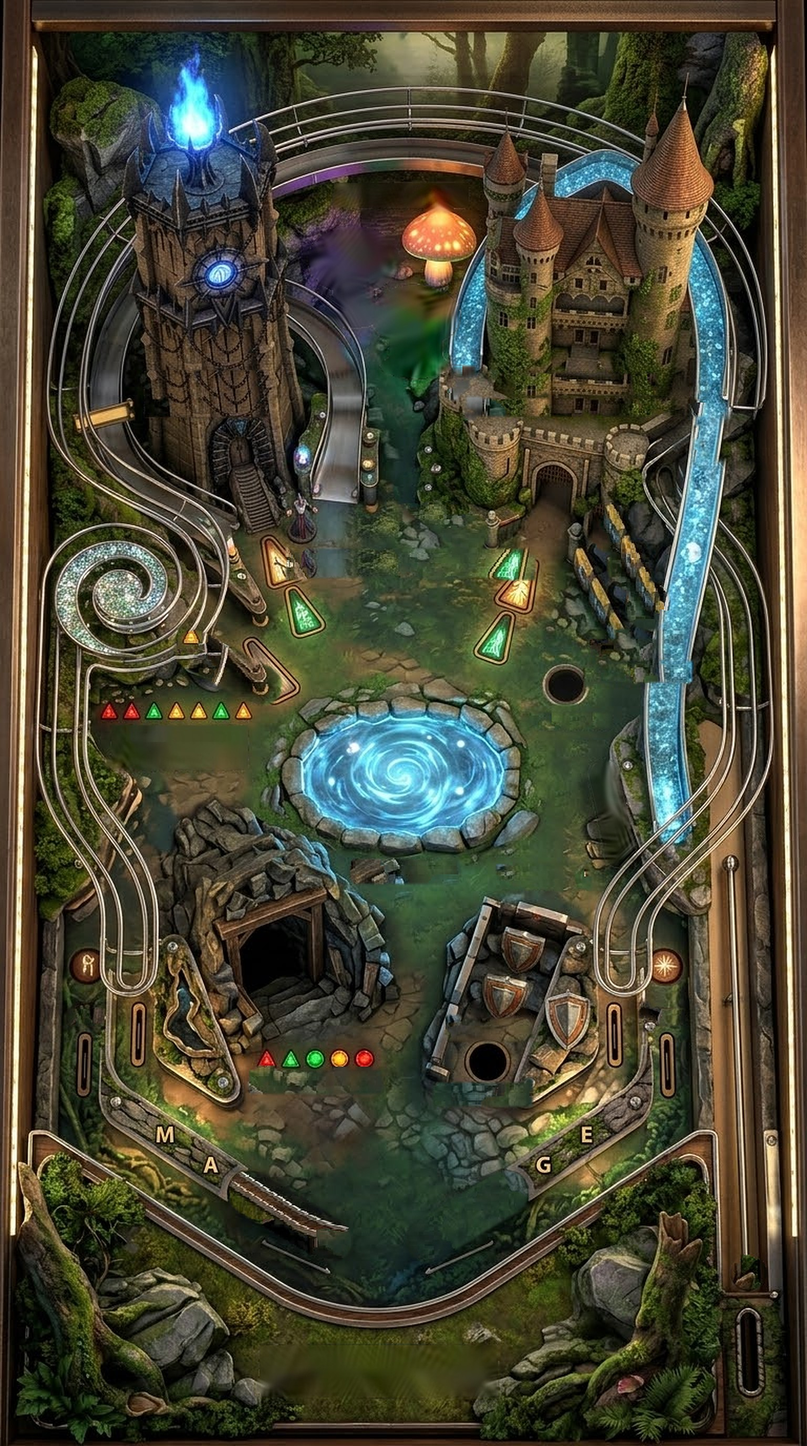
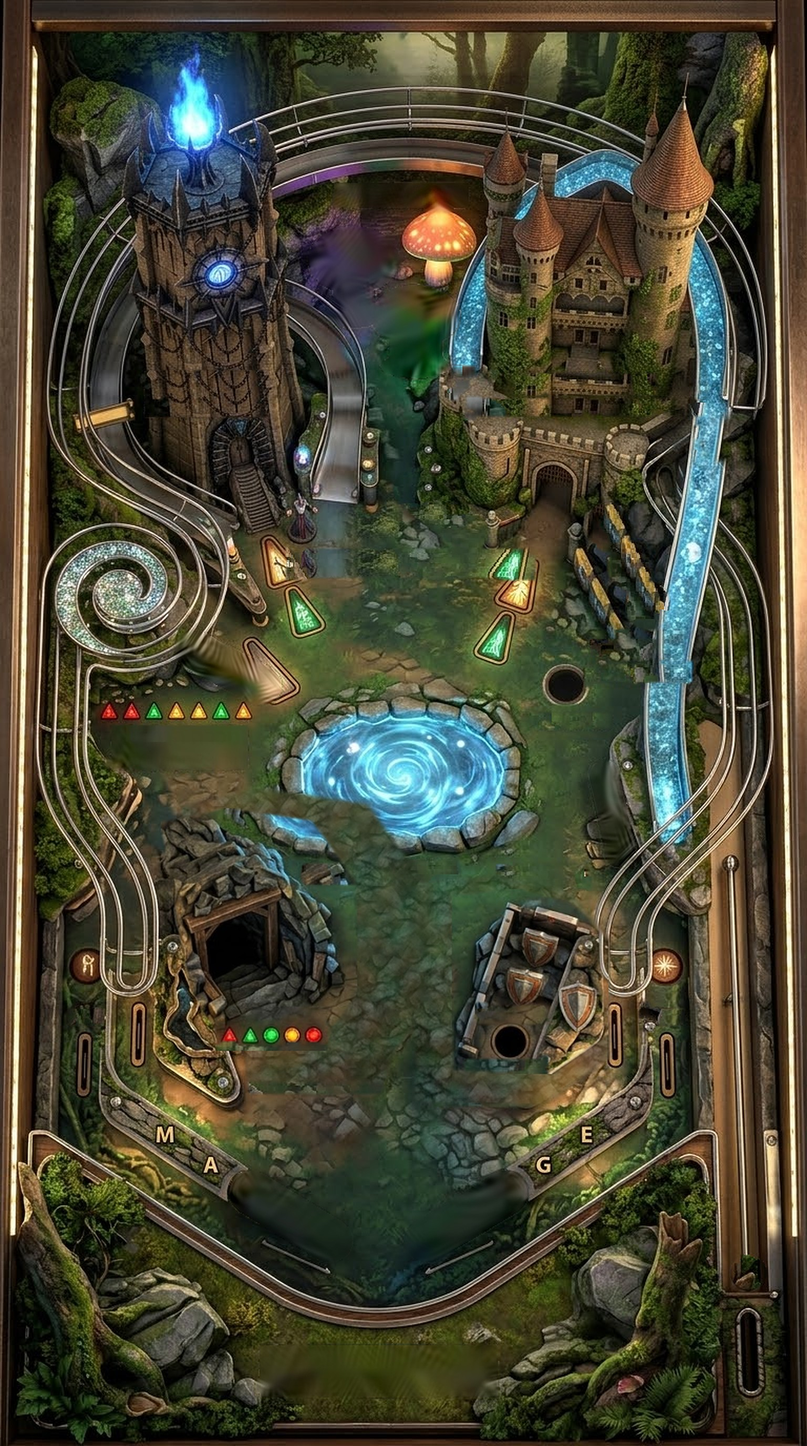
Pinball v2.5.0: mine and prince-shield structure moved apart
- Art: the dwarf mine (with its lights) moves left and the shield structure
  (with the right sling) moves right, both slightly smaller; the opened centre
  gets the drawing's own stone floor (random patch scatter, colour-matched).
- Physics uses the exact same transform (mine walls and hole, right sling,
  shield targets, lower mystery hole, lamp positions).
- Wider centre corridor: more reachable crystal/tower shots, fewer ricochets
  straight into the drain.

Claude-Session: https://claude.ai/code/session_016sxfsLsBsC7Pz7HgfG51z5

diff --git a/pinball/js/layout.js b/pinball/js/layout.js
@@ -5,6 +5,14 @@ export const IMG = { w: 768, h: 1376 };
 export const BALL_R = 14;
 export const CX = 360; // mirror line of the lower playfield
 const m = (x) => 2 * CX - x;
+
+// The dwarf mine and the prince-shield structure (with the right sling) were moved apart in the
+// art (tools/make_playfield.py MOVES): scale about the cut-out's centre, then shift.
+export const STRUCTURE_MOVES = {
+  mine: { c: [286.5, 890.5], sc: 0.86, d: [-40, -6] },
+  shield: { c: [486.5, 942.5], sc: 0.84, d: [18, -8] },
+};
+const mv = (k, [x, y]) => { const t = STRUCTURE_MOVES[k]; return [t.c[0] + (x - t.c[0]) * t.sc + t.d[0], t.c[1] + (y - t.c[1]) * t.sc + t.d[1]]; };
 export const FIELD = { left: 45, right: 731, top: 30, bottom: 1376, laneIn: 697, laneOut: 731 };
 
 export const walls = [];
@@ -36,13 +44,13 @@ poly(CASTLE_POLY, { kind: 'rock' });
 poly([[505, 458], [505, 428], [548, 428], [548, 458]]); // gate pocket
 
 // ---- dwarf mine (rock mound with the timber doorway notch) ------------------------------
-export const MINE_POLY = [[180, 810], [245, 775], [322, 792], [336, 850], [322, 905], [300, 905], [300, 880], [232, 880], [228, 905], [195, 900], [178, 860]];
+export const MINE_POLY = [[180, 810], [245, 775], [322, 792], [336, 850], [322, 905], [300, 905], [300, 880], [232, 880], [228, 905], [195, 900], [178, 860]].map((p) => mv('mine', p));
 poly(MINE_POLY, { closed: true, kind: 'rock' });
 
 // ---- prince's shield: the three drawn shields are round stand-up targets (sword art is flat) --
 // ---- slings, inlanes, outlanes ----------------------------------------------------------
 export const SLING_L = [[162, 896], [150, 1000], [222, 1040]];
-export const SLING_R = SLING_L.map(([x, y]) => [m(x), y]);
+export const SLING_R = SLING_L.map(([x, y]) => mv('shield', [m(x), y]));
 poly([SLING_L[0], SLING_L[1], SLING_L[2]]);
 poly([SLING_R[0], SLING_R[1], SLING_R[2]]);
 poly([[100, 875], [100, 1040], [228, 1111]]);               // left inlane guide + MA strip
@@ -50,7 +58,7 @@ poly([[618, 945], [618, 1040], [492, 1111]]);               // right inlane guid
 
 export const posts = [
   { x: 100, y: 875, r: 6 }, { x: 618, y: 945, r: 6 },
-  { x: 162, y: 896, r: 7 }, { x: 212, y: 1032, r: 6 }, { x: m(162), y: 896, r: 7 }, { x: m(212), y: 1032, r: 6 },
+  { x: 162, y: 896, r: 7 }, { x: 212, y: 1032, r: 6 }, { x: SLING_R[0][0], y: SLING_R[0][1], r: 7 }, { x: mv('shield', [m(212), 1032])[0], y: mv('shield', [m(212), 1032])[1], r: 6 },
   { x: 284, y: 532, r: 5 }, { x: 398, y: 538, r: 5 }, { x: 655, y: 605, r: 6 },
 ];
 export const slings = [
@@ -87,16 +95,20 @@ export const dropTargets = [[579, 501], [599, 538], [616, 576]].map(([cx, cy], i
 export const TARGET_SPRITE = { x0: 552, y0: 470, x1: 640, y1: 604 };
 
 // ---- prince shields (stand-ups) on the drawn shields of the lower-right structure ----------
-export const shieldTargets = [[480, 947, 16], [538, 967, 16], [556, 926, 14]].map(([x, y, r], i) => ({ i, x, y, r, cx: x, cy: y, lamp: i === 2 ? [495, 902] : [x, y] }));
+export const shieldTargets = [[480, 947, 15], [538, 967, 15], [556, 926, 13]].map(([x0, y0, r], i) => {
+  const [x, y] = mv('shield', [x0, y0]);
+  return { i, x, y, r, cx: x, cy: y, lamp: i === 2 ? mv('shield', [495, 902]) : [x, y] };
+});
 
 export const castleGate = { a: [505, 461], b: [548, 461], x: 527, y: 450 };
 
+const xy = ([x, y]) => ({ x, y });
 export const holes = [
   { id: 'tower', x: 228, y: 488, r: 16, kick: { vx: -40, vy: 650 }, out: [230, 494] },
   { id: 'castle', x: 527, y: 446, r: 18, kick: { vx: -320, vy: 900 }, out: [527, 488] },
   { id: 'mystery', x: 538, y: 652, r: 18, kick: { vx: -620, vy: 520 } },
-  { id: 'mystery2', x: 466, y: 1010, r: 18, kick: { vx: 0, vy: 260 }, out: [590, 946], tunnel: true },
-  { id: 'mine', x: 266, y: 898, r: 18, kick: { vx: 0, vy: 260 }, out: [126, 942], tunnel: true },
+  { id: 'mystery2', ...xy(mv('shield', [466, 1010])), r: 16, kick: { vx: 0, vy: 260 }, out: [597, 946], tunnel: true },
+  { id: 'mine', ...xy(mv('mine', [266, 898])), r: 17, kick: { vx: 0, vy: 260 }, out: [126, 942], tunnel: true },
 ];
 
 export const spinner = { x: 86, y: 397, a: [47, 397], b: [150, 397] };
@@ -122,7 +134,7 @@ export const ramps = {
   },
   orbit: { // left orbit: up the lane, over the top wires, down the right wires → right inlane
     entry: { x: 97, y: 330, w: 100, diry: -1 }, minSpeed: 520, exit: { vx: 0, vy: 380 },
-    pts: [[86, 330, 0], [76, 250, 22], [100, 160, 36], [180, 112, 46], [300, 92, 50], [420, 90, 50], [540, 104, 50], [630, 150, 48], [690, 240, 44], [702, 350, 40], [692, 480, 36], [682, 620, 32], [662, 760, 26], [622, 850, 16], [596, 905, 8], [590, 948, 2]],
+    pts: [[86, 330, 0], [76, 250, 22], [100, 160, 36], [180, 112, 46], [300, 92, 50], [420, 90, 50], [540, 104, 50], [630, 150, 48], [690, 240, 44], [702, 350, 40], [692, 480, 36], [682, 620, 32], [662, 760, 26], [622, 850, 16], [600, 905, 8], [597, 948, 2]],
   },
   launch: { // plunger lane → top → drops into the mushroom glade
     entry: { x: 714, y: 255, w: 34, diry: -1 }, minSpeed: 0, noScore: true, exit: { vx: -120, vy: 260 },
@@ -141,7 +153,7 @@ export function inOutlane(b) {
 // ---- lamp overlays on the drawn lights (image px) ---------------------------------------
 export const LAMPS = {
   dwarf: [[102, 676], [124, 676], [146, 676], [168, 676], [189, 676], [210, 676], [231, 676]],
-  lowerRow: [[253, 1008], [276, 1008], [300, 1008], [322, 1008], [346, 1008]],
+  lowerRow: [[253, 1008], [276, 1008], [300, 1008], [322, 1008], [346, 1008]].map((p) => mv('mine', p)),
   arrows: { towerHole: [265, 530], towerRamp: [290, 592], orbit: [251, 645], castle: [493, 550], crystal: [469, 594] },
   kick: { L: [80, 915], R: [635, 920] },
   mage: { M: [155, 1078], A: [200, 1100], G: [518, 1107], E: [558, 1080] },

diff --git a/pinball/index.html b/pinball/index.html
@@ -8,7 +8,7 @@
   <meta name="apple-mobile-web-app-status-bar-style" content="black-translucent">
   <meta name="apple-mobile-web-app-title" content="פינבול">
   <meta name="theme-color" content="#0b130e">
-  <meta name="app-version" content="2.4.0">
+  <meta name="app-version" content="2.5.0">
   <title>פינבול היער והטירה</title>
   <link rel="manifest" href="manifest.json">
   <link rel="apple-touch-icon" href="assets/icon-180.png">

diff --git a/pinball/sw.js b/pinball/sw.js
@@ -1,5 +1,5 @@
 // Forest & Castle Pinball – offline cache (stale-while-revalidate, scoped to /pinball/).
-const VERSION = 'fcp-v6';
+const VERSION = 'fcp-v7';
 const SHELL = [
   './', './index.html', './manifest.json', './css/style.css',
   './js/main.js', './js/world.js', './js/physics.js', './js/layout.js', './js/textures.js', './js/game.js', './js/audio.js', './js/ui.js', './js/camera.js',

diff --git a/pinball/js/main.js b/pinball/js/main.js
@@ -15,7 +15,7 @@ import * as L from './layout.js';
 const $ = (s) => document.querySelector(s);
 const nextFrame = () => new Promise((r) => requestAnimationFrame(() => setTimeout(r, 0)));
 const CAM_KEY = 'fcp_cam2';
-export const APP_VERSION = '2.4.0';
+export const APP_VERSION = '2.5.0';
 
 async function boot() {
   const canvas = $('#gl');

diff --git a/pinball/tools/make_playfield.py b/pinball/tools/make_playfield.py
@@ -130,17 +130,90 @@ def region_clone(box, dx, dy):
     src_patch = clean[y0 + dy:y1 + dy, x0 + dx:x1 + dx]
     clean[y0:y1, x0:x1][hole] = src_patch[hole]
 
-FSR = cv2.xphoto.INPAINT_FSR_BEST
+FSR = cv2.xphoto.INPAINT_FSR_FAST if os.environ.get("FAST") else cv2.xphoto.INPAINT_FSR_BEST
 region_fill((100, 686, 240, 736), (60, 690, 290, 800), FSR)      # dwarf mine caption (crop excludes the lights)
 region_fill((243, 1276, 478, 1334), (200, 1262, 520, 1360), FSR)  # bottom caption
 region_fill((312, 170, 450, 202), (300, 168, 470, 240), FSR)      # mushrooms caption
 region_fill((556, 718, 612, 834), (520, 700, 640, 860), FSR)      # removed right-middle flipper
+region_fill((214, 1110, 338, 1204), (190, 1090, 360, 1222), FSR)  # lower left flipper spot
+region_fill((382, 1110, 506, 1204), (360, 1090, 530, 1222), FSR)  # lower right flipper spot
+region_fill((162, 596, 272, 674), (140, 580, 290, 690), FSR)      # upper left flipper spot
 region_fill((128, 346, 262, 400), (124, 312, 290, 402), cv2.xphoto.INPAINT_SHIFTMAP)  # tower caption: only tower wood around it
 region_fill((290, 214, 440, 360), (270, 196, 452, 400), FSR)      # old purple/teal mushroom spots (dark glade ground)
 
 # feather the patch edges a little
 soft = cv2.GaussianBlur((mask > 0).astype(np.float32), (0, 0), 1.2)[..., None]
 clean = np.clip(clean * soft + base * (1 - soft), 0, 255).astype(np.uint8)
+
+# ---- spread the lower structures apart (same transform as STRUCTURE_MOVES in js/layout.js) ----
+# (polygon in source px, scale, (dx, dy)); scale is about the polygon's bounding-box centre
+MOVES = [
+    ([(178, 772), (250, 756), (344, 770), (392, 836), (394, 962), (366, 1000), (360, 1024), (240, 1024), (238, 1000), (212, 960), (196, 880)], 0.86, (-40, -6)),   # dwarf mine + its 5 lights
+    ([(398, 846), (472, 838), (536, 854), (574, 896), (574, 1002), (510, 1046), (400, 1042)], 0.84, (18, -8)),                                                   # prince shield + right sling
+]
+def poly_mask1(pts):
+    mm = np.zeros((H, W), np.uint8); cv2.fillPoly(mm, [np.array(pts, np.int32)], 255); return mm
+moved_src = clean.copy()
+vac = np.zeros((H, W), np.uint8)
+for pts, _, _ in MOVES: vac |= cv2.dilate(poly_mask1(pts), np.ones((7, 7), np.uint8))
+# where the moved structures will land (those pixels get covered anyway)
+cover = np.zeros((H, W), np.uint8)
+for pts, sc, (dx, dy) in MOVES:
+    P = np.array(pts, np.float32); c0 = (P.min(0) + P.max(0)) / 2
+    Q = (P - c0) * sc + c0 + np.array([dx, dy], np.float32)
+    cv2.fillPoly(cover, [Q.astype(np.int32)], 255)
+cover = cv2.erode(cover, np.ones((5, 5), np.uint8))
+vis = (vac > 0) & (cover == 0)
+if os.environ.get("FAST"): print("vis px", int(vis.sum()), "vac", int((vac>0).sum()), "cover", int((cover>0).sum()))
+# the part that stays visible gets real floor texture: the drawing's own stone/grass floor
+# (swatch above the flippers) tiled with mirroring, then gradient-blended into its surroundings
+sw = src[1050:1104, 250:470]
+tile = np.vstack([np.hstack([sw, sw[:, ::-1]]), np.hstack([sw[::-1], sw[::-1, ::-1]])])
+cx0, cy0, cx1, cy1 = 120, 740, 640, 1112
+# random soft-edged patches from the swatch (no repeating / mirrored pattern)
+rng = np.random.default_rng(11)
+P = 46; win = np.outer(np.hanning(P), np.hanning(P)).astype(np.float32)[..., None] + 1e-3
+acc = np.zeros((cy1 - cy0 + P, cx1 - cx0 + P, 3), np.float32); wsum = np.zeros(acc.shape[:2] + (1,), np.float32)
+swf = sw.astype(np.float32)
+for yy in range(0, cy1 - cy0 + 1, P // 3):
+    for xx in range(0, cx1 - cx0 + 1, P // 3):
+        oy = rng.integers(0, swf.shape[0] - P + 1); ox = rng.integers(0, swf.shape[1] - P + 1)
+        patch = swf[oy:oy + P, ox:ox + P]
+        if rng.random() < 0.5: patch = patch[:, ::-1]
+        acc[yy:yy + P, xx:xx + P] += patch * win; wsum[yy:yy + P, xx:xx + P] += win
+tex_big = (acc / np.maximum(wsum, 1e-3))[P // 2:P // 2 + cy1 - cy0, P // 2:P // 2 + cx1 - cx0]
+vis_c = vis[cy0:cy1, cx0:cx1]
+dst = clean[cy0:cy1, cx0:cx1].astype(np.float32)
+# local colour of the surrounding floor (normalised blur that ignores the vacated pixels)
+pool_x = np.zeros((H, W), np.uint8); cv2.ellipse(pool_x, (376, 726), (112, 80), 0, 0, 360, 255, -1)
+wgt = ((vac[cy0:cy1, cx0:cx1] == 0) & (pool_x[cy0:cy1, cx0:cx1] == 0)).astype(np.float32)
+sig = 16
+wb = cv2.GaussianBlur(wgt, (0, 0), sig)[..., None]
+mean = cv2.GaussianBlur(dst * wgt[..., None], (0, 0), sig) / np.maximum(wb, 1e-3)
+wb2 = cv2.GaussianBlur(wgt, (0, 0), 60)[..., None]                     # wide fallback where no floor is near
+mean2 = cv2.GaussianBlur(dst * wgt[..., None], (0, 0), 60) / np.maximum(wb2, 1e-3)
+t = np.clip(wb / 0.25, 0, 1)
+mean = mean * t + mean2 * (1 - t)
+# fine detail of the swatch on top of that colour
+texf = tex_big.astype(np.float32)
+detail = texf - cv2.GaussianBlur(texf, (0, 0), sig)
+fill = np.clip(mean + detail * 1.3, 0, 255)  # patch averaging softens detail a little; restore it
+k = cv2.GaussianBlur(cv2.dilate(vis_c.astype(np.uint8) * 255, np.ones((5, 5), np.uint8)).astype(np.float32) / 255, (0, 0), 2)[..., None]
+clean[cy0:cy1, cx0:cx1] = np.clip(fill * k + dst * (1 - k), 0, 255).astype(np.uint8)
+# paste each structure, scaled and moved, with a soft edge
+for pts, sc, (dx, dy) in MOVES:
+    mm = poly_mask1(pts)
+    x, y, w, h = cv2.boundingRect(mm)
+    spr = moved_src[y:y + h, x:x + w]
+    a = cv2.GaussianBlur(mm[y:y + h, x:x + w], (0, 0), 1.4).astype(np.float32) / 255
+    nw, nh = round(w * sc), round(h * sc)
+    spr = cv2.resize(spr, (nw, nh), interpolation=cv2.INTER_AREA)
+    a = cv2.resize(a, (nw, nh), interpolation=cv2.INTER_LINEAR)[..., None]
+    ccx, ccy = x + w / 2, y + h / 2
+    X, Y = round(ccx - nw / 2 + dx), round(ccy - nh / 2 + dy)
+    roi = clean[Y:Y + nh, X:X + nw].astype(np.float32)
+    clean[Y:Y + nh, X:X + nw] = (spr * a + roi * (1 - a)).astype(np.uint8)
+    print('moved', (x, y, w, h), 'centre', (ccx, ccy))
 
 def up(img):
     big = cv2.resize(img, (W * 2, H * 2), interpolation=cv2.INTER_LANCZOS4)
